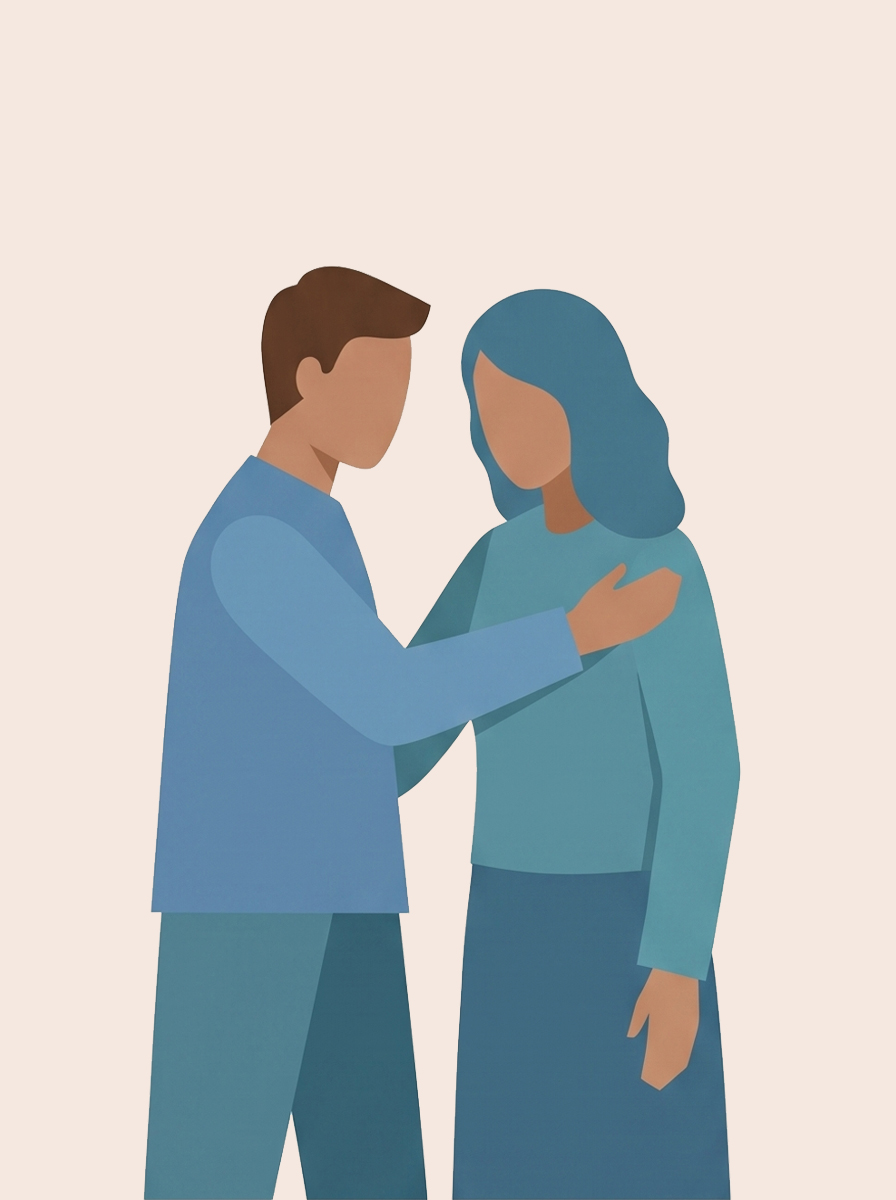
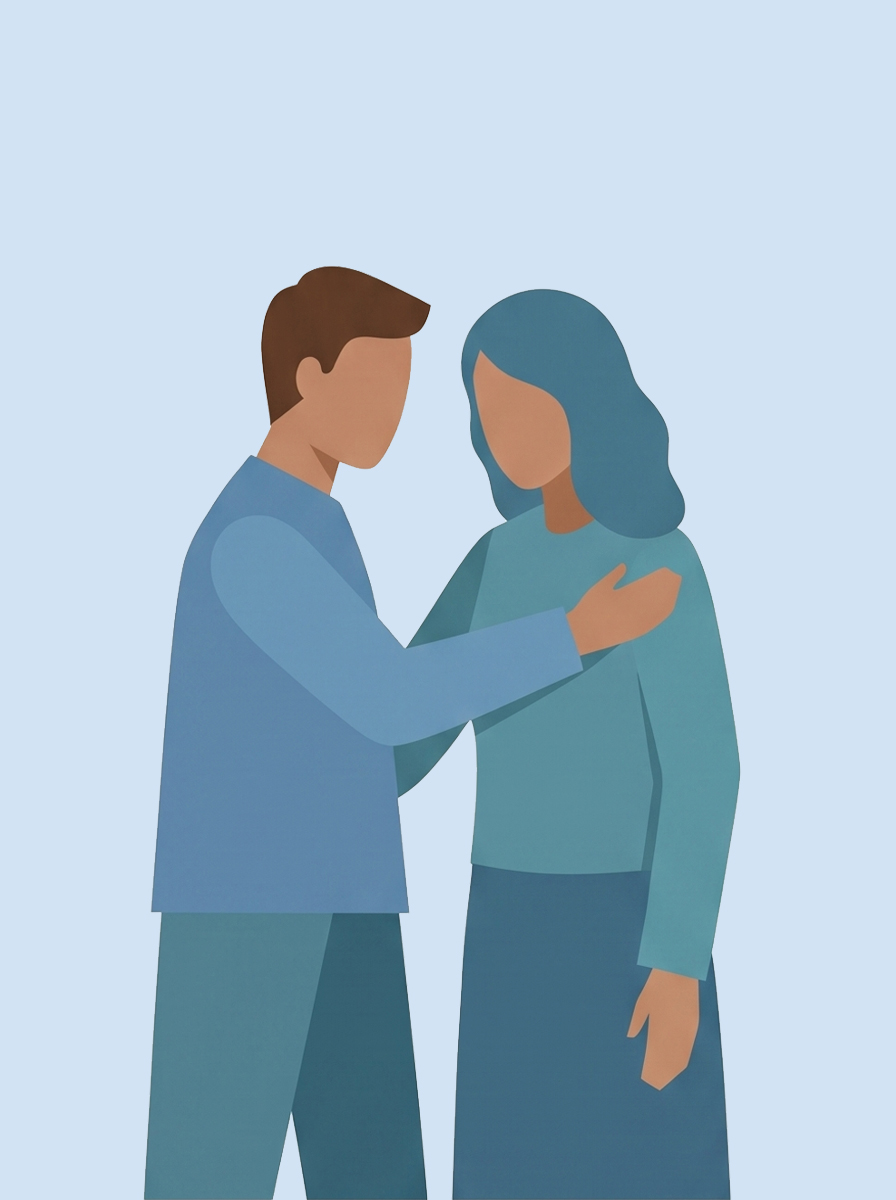
Update android assets

diff --git a/android/app/src/main/assets/js/translations.js b/android/app/src/main/assets/js/translations.js
@@ -37,7 +37,7 @@ const Translations = {
         "card.revelatio.desc": "Confession and Sincerity",
         "card.absolutio.desc": "Forgiveness and Reconciliation",
         "card.gratia.desc": "Gratitude and Praise",
-        "home.desc": "Write your prayer, confession, plea for forgiveness, or gratitude, and allow it to transform into pure energy through sound waves calibrated to elevate your voice to the celestial.",
+        "home.desc": "Write your <span style="color: var(--color-freq-humilis);">prayer</span>, <span style="color: var(--color-freq-revelatio);">confession</span>, <span style="color: var(--color-freq-absolutio);">plea for forgiveness</span>, or <span style="color: var(--color-freq-gratia);">gratitude</span>, and allow it to transform into pure energy through sound waves calibrated to elevate your voice to the celestial.",
         
         "freq.purpose": "Purpose",
         "freq.effect": "Effect",
@@ -219,7 +219,7 @@ const Translations = {
         "card.revelatio.desc": "Confesión y Sinceridad",
         "card.absolutio.desc": "Perdón y Reconciliación",
         "card.gratia.desc": "Agradecimiento y Alabanza",
-        "home.desc": "Escribe tu plegaria, confesión, petición de perdón o agradecimiento y permítele transformarse en energía pura mediante ondas de sonido calibradas para elevar tu voz hasta lo celestial.",
+        "home.desc": "Escribe tu <span style="color: var(--color-freq-humilis);">plegaria</span>, <span style="color: var(--color-freq-revelatio);">confesión</span>, <span style="color: var(--color-freq-absolutio);">petición de perdón</span> o <span style="color: var(--color-freq-gratia);">agradecimiento</span> y permítele transformarse en energía pura mediante ondas de sonido calibradas para elevar tu voz hasta lo celestial.",
         
         "freq.purpose": "Propósito",
         "freq.effect": "Efecto",
@@ -401,7 +401,7 @@ const Translations = {
         "card.revelatio.desc": "Confessione e Sincerità",
         "card.absolutio.desc": "Perdono e Riconciliazione",
         "card.gratia.desc": "Gratitudine e Lode",
-        "home.desc": "Scrivi la tua preghiera, confessione, richiesta di perdono o gratitudine, e permettile di trasformarsi in pura energia attraverso onde sonore calibrate per elevare la tua voce fino al celeste.",
+        "home.desc": "Scrivi la tua <span style="color: var(--color-freq-humilis);">preghiera</span>, <span style="color: var(--color-freq-revelatio);">confessione</span>, <span style="color: var(--color-freq-absolutio);">richiesta di perdono</span> o <span style="color: var(--color-freq-gratia);">gratitudine</span>, e permettile di trasformarsi in pura energia attraverso onde sonore calibrate per elevare la tua voce fino al celeste.",
         
         "freq.purpose": "Scopo",
         "freq.effect": "Effetto",
@@ -583,7 +583,7 @@ const Translations = {
         "card.revelatio.desc": "Confessio et Sinceritas",
         "card.absolutio.desc": "Remissio et Reconciliatio",
         "card.gratia.desc": "Gratitudo et Laus",
-        "home.desc": "Scribe precem tuam, confessionem, petitionem veniae vel gratiarum actionem, et permitte eam in energiam puram transformari per undas sonoras caligatas ad vocem tuam ad caelestia evehendam.",
+        "home.desc": "Scribe <span style="color: var(--color-freq-humilis);">precem</span> tuam, <span style="color: var(--color-freq-revelatio);">confessionem</span>, <span style="color: var(--color-freq-absolutio);">petitionem veniae</span> vel <span style="color: var(--color-freq-gratia);">gratiarum actionem</span>, et permitte eam in energiam puram transformari per undas sonoras caligatas ad vocem tuam ad caelestia evehendam.",
         
         "freq.purpose": "Propositum",
         "freq.effect": "Effectus",
@@ -759,7 +759,7 @@ const Translations = {
         "card.revelatio.desc": "\u5fcf\u6094\u548c\u771f\u8bda",
         "card.absolutio.desc": "\u5bbd\u6055\u548c\u548c\u89e3",
         "card.gratia.desc": "\u611f\u6069\u548c\u8d5e\u7f8e",
-        "home.desc": "\u5199\u4e0b\u4f60\u7684\u7948\u7977\u3001\u5fcf\u6094\u3001\u5bbd\u6055\u6216\u611f\u6069\u7684\u8bf7\u6c42\uff0c\u5e76\u8ba9\u5b83\u901a\u8fc7\u6821\u51c6\u7684\u58f0\u6ce2\u8f6c\u5316\u4e3a\u7eaf\u7cb9\u7684\u80fd\u91cf\uff0c\u5c06\u4f60\u7684\u58f0\u97f3\u63d0\u5347\u5230\u5929\u5802\u3002",
+        "home.desc": "\u5199\u4e0b\u4f60\u7684<span style=\"color: var(--color-freq-humilis);\">\u7948\u7977</span>\u3001<span style=\"color: var(--color-freq-revelatio);\">\u5fcf\u6094</span>\u3001<span style=\"color: var(--color-freq-absolutio);\">\u5bbd\u6055</span>\u6216<span style=\"color: var(--color-freq-gratia);\">\u611f\u6069</span>\u7684\u8bf7\u6c42\uff0c\u5e76\u8ba9\u5b83\u901a\u8fc7\u6821\u51c6\u7684\u58f0\u6ce2\u8f6c\u5316\u4e3a\u7eaf\u7cb9\u7684\u80fd\u91cf\uff0c\u5c06\u4f60\u7684\u58f0\u97f3\u63d0\u5347\u5230\u5929\u5802\u3002",
         "freq.purpose": "\u76ee\u7684",
         "freq.effect": "\u6548\u679c",
         "btn.write": "\u5199\u4e0b\u4fe1\u606f",

diff --git a/android/app/src/main/assets/css/style.css b/android/app/src/main/assets/css/style.css
@@ -1,6 +1,6 @@
 :root {
     /* Colors */
-    --color-bg-primary: #F8EFE4;
+    --color-bg-primary: #FDF8F2;
     --color-bg-card: #FAFAF5;
     --color-text-dark: #2C2C28;
     --color-text-muted: #7A7A72;
@@ -240,11 +240,10 @@ body {
 }
 
 .home-description p {
-    font-family: var(--font-serif);
-    font-style: italic;
-    font-size: 0.95rem;
-    line-height: 1.6;
-    color: #5C4A3A;
+    font-family: var(--font-sans);
+    font-size: 1.05rem;
+    line-height: 1.7;
+    color: #7A7A7A;
 }
 
 .home-logo {
@@ -312,7 +311,7 @@ body {
     object-fit: cover;
     object-position: center;
     display: block;
-    border: 2px solid rgba(0, 0, 0, 0.06);
+    border: none;
 }
 
 .card-text {
@@ -682,7 +681,7 @@ body {
     height: 54px;
     border-radius: 50%;
     border: none;
-    background: #EFEBE5;
+    background: transparent;
     color: #8B8276;
     display: flex;
     align-items: center;
@@ -1618,3 +1617,9 @@ body.evil-mode .home-logo-circle {
 }
 
 
+
+/* Added for color consistency */
+.message-card[data-type="humilis"] .card-title, .message-card[data-type="humilis"] .card-freq { color: var(--color-freq-humilis); }
+.message-card[data-type="revelatio"] .card-title, .message-card[data-type="revelatio"] .card-freq { color: var(--color-freq-revelatio); }
+.message-card[data-type="absolutio"] .card-title, .message-card[data-type="absolutio"] .card-freq { color: var(--color-freq-absolutio); }
+.message-card[data-type="gratia"] .card-title, .message-card[data-type="gratia"] .card-freq { color: var(--color-freq-gratia); }

diff --git a/android/app/src/main/assets/index.html b/android/app/src/main/assets/index.html
@@ -111,7 +111,7 @@
             </div>
 
             <div class="home-description">
-                <p data-i18n="home.desc">Escribe tu plegaria, confesión, petición de perdón o agradecimiento y permítele transformarse en energía pura mediante ondas de sonido calibradas para elevar tu voz hasta lo celestial.</p>
+                <p data-i18n="home.desc" data-i18n-html="true">Escribe tu plegaria, confesión, petición de perdón o agradecimiento y permítele transformarse en energía pura mediante ondas de sonido calibradas para elevar tu voz hasta lo celestial.</p>
             </div>
             
             <div class="home-logo">

diff --git a/android/app/src/main/assets/js/app.js b/android/app/src/main/assets/js/app.js
@@ -572,7 +572,10 @@ const OrisApp = {
         btnWrite.style.backgroundColor = freq.color;
         btnWrite.style.boxShadow = `0 4px 15px rgba(${freq.colorRgb}, 0.4)`;
     }
-    if (overlayHz) overlayHz.textContent = `${freq.hz} Hz`;
+    if (overlayHz) {
+        overlayHz.textContent = `${freq.hz} Hz`;
+        overlayHz.style.color = freq.color;
+    }
     if (overlayPurpose) overlayPurpose.textContent = Translations[this.currentLang][`freq.${type}.purpose`];
     if (overlayEffect) overlayEffect.textContent = Translations[this.currentLang][`freq.${type}.effect`];
 
